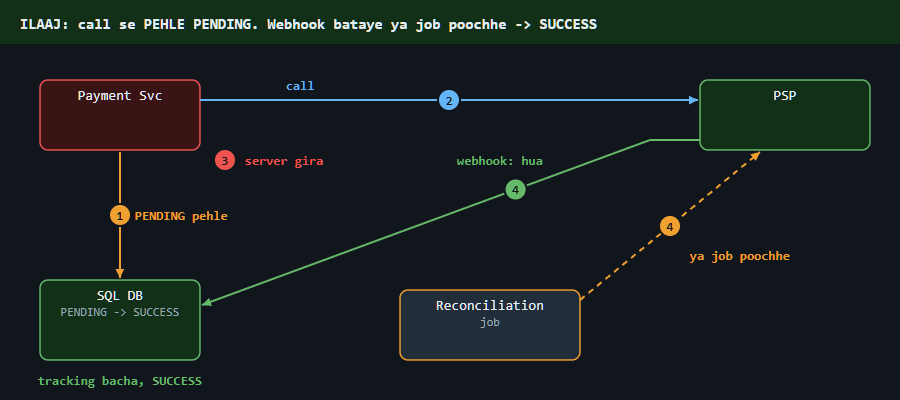
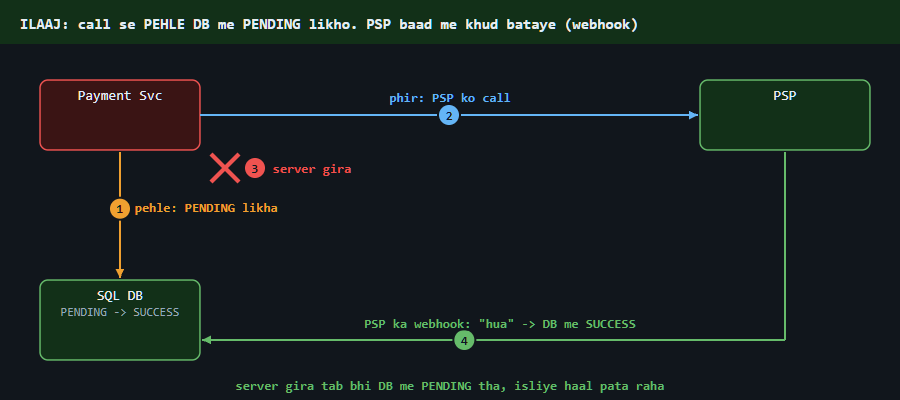
hld payment c5_2: saaf kram 1-4 (PENDING, call, gira, webhook), job wala raasta AGAR me

diff --git a/04_HLD/SYSTEM_DESIGNS/06_payment_system/img/c5_anim.html b/04_HLD/SYSTEM_DESIGNS/06_payment_system/img/c5_anim.html
@@ -138,7 +138,7 @@ function draw(t) {
 const DUR = 18;
 const PH = [
   [0, RED, 'DIKKAT', 'DIKKAT: PSP ko call gayi, jawab se pehle server gira. Paisa gaya ya nahi?'],
-  [3, GRN, 'ILAAJ', 'ILAAJ: call se PEHLE PENDING. Webhook bataye ya job poochhe -> SUCCESS'],
+  [3, GRN, 'ILAAJ', 'ILAAJ: call se PEHLE DB me PENDING likho. PSP baad me khud bataye (webhook)'],
   [6, YEL, 'AGAR', 'AGAR webhook do baar aaya? -> SUCCESS sirf ek baar, doosra ignore'],
   [9, YEL, 'AGAR', 'AGAR webhook nakli? -> hastakshar jaancho (PSP secret), PENDING se milao'],
   [12, YEL, 'AGAR', 'AGAR webhook aaya hi nahi? -> job purane PENDING ke liye PSP se poochhe'],
@@ -161,13 +161,13 @@ function frame(ph) {
     A(698, 95, 202, 95, C.good, { dash: 1 }); L(450, 120, 'jawab kisi ne nahi suna', C.bad);
     L(500, 230, 'paisa gaya ya nahi? pata nahi', C.bad);
   } else if (ph === 1) {
-    base({ sv: 'bad', db: 'good', job: 'acc', ps: 'good' }, { db: 'PENDING -> SUCCESS' });
-    A(120, 112, 120, 238, C.acc, { n: 1 }); L(135, 180, 'PENDING pehle', C.acc, 'start');
-    A(200, 60, 698, 60, C.msg, { n: 2 }); L(300, 50, 'call', C.msg);
-    num(225, 120, 3, C.bad); L(245, 125, 'server gira', C.bad, 'start');
-    AP([[700, 100], [650, 100], [202, 265]], C.good, { n: 4, at: 0.3 }); L(500, 125, 'webhook: hua', C.good);
-    A(580, 260, 760, 112, C.acc, { dash: 1, n: 4, at: 0.5 }); L(690, 220, 'ya job poochhe', C.acc, 'start');
-    L(120, 345, 'tracking bacha, SUCCESS', C.good);
+    base({ sv: 'bad', db: 'good', ps: 'good', noJob: 1 }, { db: 'PENDING -> SUCCESS' });
+    A(120, 112, 120, 238, C.acc, { n: 1, at: 0.45 }); L(135, 172, 'pehle: PENDING likha', C.acc, 'start');
+    A(200, 75, 698, 75, C.msg, { n: 2, at: 0.5 }); L(450, 62, 'phir: PSP ko call', C.msg);
+    cross(225, 128); num(255, 128, 3, C.bad); L(273, 133, 'server gira', C.bad, 'start');
+    AP([[785, 112], [785, 300], [202, 300]], C.good, { n: 4, at: 0.55 });
+    L(500, 288, 'PSP ka webhook: "hua" -> DB me SUCCESS', C.good);
+    L(450, 350, 'server gira tab bhi DB me PENDING tha, isliye haal pata raha', C.good);
   } else if (ph === 2) {
     base({ db: 'good', ps: 'good', noJob: 1 }, { db: 'SUCCESS (ek baar)' });
     AP([[700, 85], [650, 85], [202, 255]], C.good, { n: 1, at: 0.3 }); L(470, 105, 'webhook: SUCCESS likha', C.good);

diff --git a/04_HLD/SYSTEM_DESIGNS/06_payment_system/img/c5_anim.js b/04_HLD/SYSTEM_DESIGNS/06_payment_system/img/c5_anim.js
@@ -3,7 +3,7 @@
 const DUR = 18;
 const PH = [
   [0, RED, 'DIKKAT', 'DIKKAT: PSP ko call gayi, jawab se pehle server gira. Paisa gaya ya nahi?'],
-  [3, GRN, 'ILAAJ', 'ILAAJ: call se PEHLE PENDING. Webhook bataye ya job poochhe -> SUCCESS'],
+  [3, GRN, 'ILAAJ', 'ILAAJ: call se PEHLE DB me PENDING likho. PSP baad me khud bataye (webhook)'],
   [6, YEL, 'AGAR', 'AGAR webhook do baar aaya? -> SUCCESS sirf ek baar, doosra ignore'],
   [9, YEL, 'AGAR', 'AGAR webhook nakli? -> hastakshar jaancho (PSP secret), PENDING se milao'],
   [12, YEL, 'AGAR', 'AGAR webhook aaya hi nahi? -> job purane PENDING ke liye PSP se poochhe'],
@@ -26,13 +26,13 @@ function frame(ph) {
     A(698, 95, 202, 95, C.good, { dash: 1 }); L(450, 120, 'jawab kisi ne nahi suna', C.bad);
     L(500, 230, 'paisa gaya ya nahi? pata nahi', C.bad);
   } else if (ph === 1) {
-    base({ sv: 'bad', db: 'good', job: 'acc', ps: 'good' }, { db: 'PENDING -> SUCCESS' });
-    A(120, 112, 120, 238, C.acc, { n: 1 }); L(135, 180, 'PENDING pehle', C.acc, 'start');
-    A(200, 60, 698, 60, C.msg, { n: 2 }); L(300, 50, 'call', C.msg);
-    num(225, 120, 3, C.bad); L(245, 125, 'server gira', C.bad, 'start');
-    AP([[700, 100], [650, 100], [202, 265]], C.good, { n: 4, at: 0.3 }); L(500, 125, 'webhook: hua', C.good);
-    A(580, 260, 760, 112, C.acc, { dash: 1, n: 4, at: 0.5 }); L(690, 220, 'ya job poochhe', C.acc, 'start');
-    L(120, 345, 'tracking bacha, SUCCESS', C.good);
+    base({ sv: 'bad', db: 'good', ps: 'good', noJob: 1 }, { db: 'PENDING -> SUCCESS' });
+    A(120, 112, 120, 238, C.acc, { n: 1, at: 0.45 }); L(135, 172, 'pehle: PENDING likha', C.acc, 'start');
+    A(200, 75, 698, 75, C.msg, { n: 2, at: 0.5 }); L(450, 62, 'phir: PSP ko call', C.msg);
+    cross(225, 128); num(255, 128, 3, C.bad); L(273, 133, 'server gira', C.bad, 'start');
+    AP([[785, 112], [785, 300], [202, 300]], C.good, { n: 4, at: 0.55 });
+    L(500, 288, 'PSP ka webhook: "hua" -> DB me SUCCESS', C.good);
+    L(450, 350, 'server gira tab bhi DB me PENDING tha, isliye haal pata raha', C.good);
   } else if (ph === 2) {
     base({ db: 'good', ps: 'good', noJob: 1 }, { db: 'SUCCESS (ek baar)' });
     AP([[700, 85], [650, 85], [202, 255]], C.good, { n: 1, at: 0.3 }); L(470, 105, 'webhook: SUCCESS likha', C.good);
